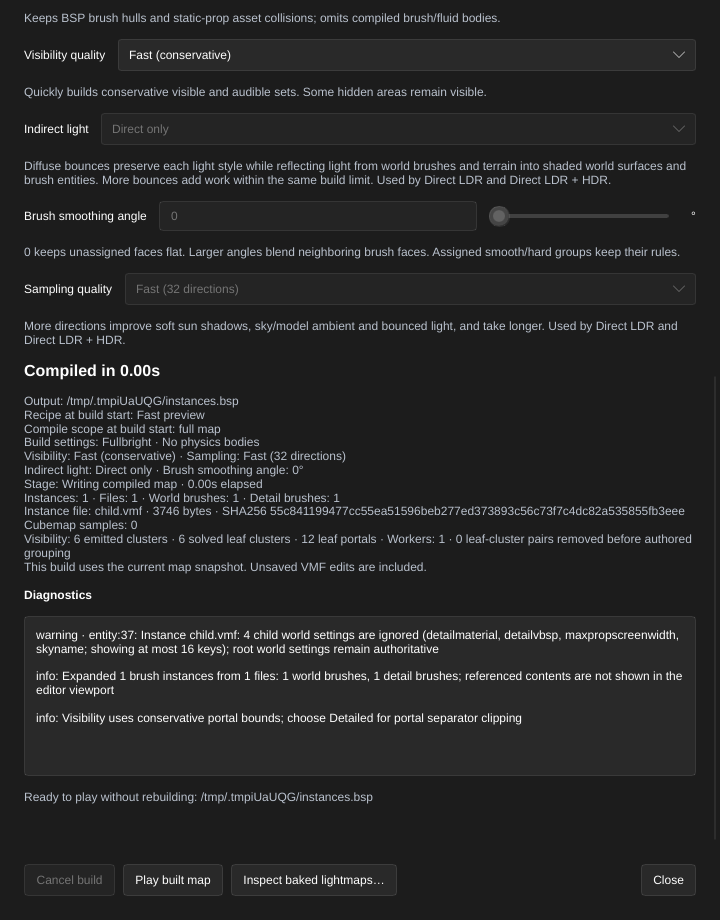
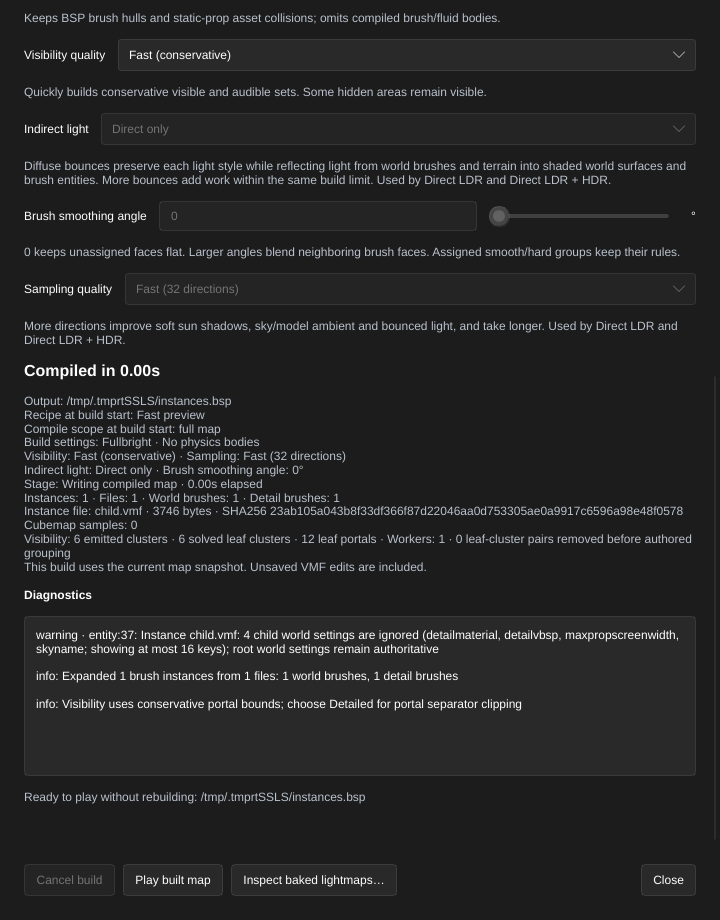
Ship shared instance authoring and reference previews - Keep reference geometry bounded, explicit and owner-selectable - Guard source paths and preserve owned authoring drafts - Release child UI owners and verify actual resource teardown - Update manuals, captures and focused validation workflows

diff --git a/crates/editor-core/src/mcp/tools/build.rs b/crates/editor-core/src/mcp/tools/build.rs
@@ -142,7 +142,7 @@ impl EditorServer {
     }
 
     #[tool(
-        description = "Start a background compile of the current map snapshot and return its job token immediately. Poll get_compile_status, or cancel_compile with that token. Does not launch the game or save the VMF. Saved maps support bounded single-level func_instance world/func_detail brushes from checked relative VMFs inside the saved parent directory. No recursive/runtime-entity expansion or viewport instance preview; func_instance_parms, unsupported helpers and Generate reflections with instances reject. Instance builds retain exact source/dependency guards for atomic BSP/LIN publication, stale status, baked inspection and background launch verification. Stats.instances reports bounded files/counts and hashes. Failed, changed or cancelled builds preserve previous outputs."
+        description = "Start a background compile of the current map snapshot and return its job token immediately. Poll get_compile_status, or cancel_compile with that token. Does not launch the game or save the VMF. Saved maps support bounded single-level func_instance world/func_detail brushes from checked relative VMFs inside the saved parent directory. Explicit default-off viewport reference contents use inspect_instance_contents/set_instance_contents; compilation does not refresh that layer. No recursive/runtime-entity expansion; func_instance_parms, unsupported helpers and Generate reflections with instances reject. Instance builds retain exact source/dependency guards for atomic BSP/LIN publication, stale status, baked inspection and background launch verification. Stats.instances reports bounded files/counts and hashes. Failed, changed or cancelled builds preserve previous outputs."
     )]
     pub(in crate::mcp) fn start_compile(
         &self,

diff --git a/scripts/validate_instance_contents.py b/scripts/validate_instance_contents.py
@@ -11,7 +11,7 @@ from validate_sky_preview import rgba_png
 
 TOP = {"projection": "top", "center": [0, 0, 0], "ortho_height": 96}
 SIZE = 513
-PROBE = (171, 256)
+PROBE = (64, 256)
 
 
 def digest(path):
@@ -64,7 +64,7 @@ def validate(client, output, result):
 
     child = output / "parts/child.vmf"
     child.parent.mkdir()
-    block([-24, -24, 0], [24, 24, 40])
+    block([-40, -40, 0], [40, 40, 40])
     child_detail = block([40, -12, 0], [64, 12, 24])
     client.call("tie_to_entity", {"ids": [child_detail], "classname": "func_detail"})
     client.call("save_map", {"path": str(child)})
@@ -116,8 +116,11 @@ def validate(client, output, result):
     check(on != off and probe(on) != probe(off) and report["displayed"],
         "Actual flat world/detail reference surfaces render at transformed positions")
     reference_hit = pick(True)
+    marker_hit = client.call("pick_at_pixel", {"x": 171, "y": 256, "width": SIZE,
+        "height": SIZE, "camera": TOP, "instance_contents": False})
     check(reference_hit["object"] == owners[0] and reference_hit["solid"] is None
-        and reference_hit["side"] is None and pick(False) == {"hit": None},
+        and reference_hit["side"] is None and pick(False) == {"hit": None}
+        and marker_hit["object"] == owners[0] and marker_hit["point"][2] < reference_hit["point"][2],
         "Temporary render/pixel-pick overrides agree and expose only the existing root owner")
     center_hit = client.call("pick_at_pixel", {"x": 256, "y": 256, "width": SIZE, "height": SIZE,
         "camera": TOP, "instance_contents": True})

diff --git a/crates/compiler/src/instances/tests.rs b/crates/compiler/src/instances/tests.rs
@@ -950,6 +950,12 @@ fn reference_presence_is_metadata_only_and_keeps_directory_changes_independent()
 #[test]
 fn reference_presence_rejects_unsupported_paths_and_self_aliases() {
     let (directory, _, _, _) = fixture();
+    #[cfg(unix)]
+    std::fs::hard_link(
+        directory.path().join("parent.vmf"),
+        directory.path().join("self.vmf"),
+    )
+    .unwrap();
     let location = SourceLocation::capture(&directory.path().join("parent.vmf")).unwrap();
     let oversized = directory.path().join("oversized.vmf");
     std::fs::File::create(&oversized)
@@ -958,14 +964,13 @@ fn reference_presence_rejects_unsupported_paths_and_self_aliases() {
         .unwrap();
     std::fs::create_dir(directory.path().join("directory.vmf")).unwrap();
     #[cfg(unix)]
-    {
-        std::fs::hard_link(
-            directory.path().join("parent.vmf"),
-            directory.path().join("self.vmf"),
-        )
-        .unwrap();
-        assert!(location.reference("self.vmf").is_err());
-    }
+    assert!(
+        location
+            .reference("self.vmf")
+            .unwrap_err()
+            .to_string()
+            .contains("self-reference cycle")
+    );
     for value in [
         "",
         "../child.vmf",

diff --git a/crates/editor/src/ui/mod.rs b/crates/editor/src/ui/mod.rs
@@ -459,7 +459,15 @@ fn refresh_panel(app: &AppWindow, session: &mut Session) {
     app.set_selection_title(title.into());
     app.set_selection_detail(detail.into());
     app.set_entity_selected(properties.is_some());
-    app.set_can_edit_instance_reference(single_selected_entity(session).and_then(|id|doc.entity(id)).is_some_and(|entity|entity.classname().is_some_and(|name|name.eq_ignore_ascii_case("func_instance"))));
+    app.set_can_edit_instance_reference(
+        single_selected_entity(session)
+            .and_then(|id| doc.entity(id))
+            .is_some_and(|entity| {
+                entity
+                    .classname()
+                    .is_some_and(|name| name.eq_ignore_ascii_case("func_instance"))
+            }),
+    );
     let helper_report =
         single_selected_entity(session).and_then(|id| session.entity_helper_report(id).ok());
     app.set_has_fgd_model_guide(

diff --git a/crates/editor/src/ui/instance_reference.rs b/crates/editor/src/ui/instance_reference.rs
@@ -364,13 +364,11 @@ impl Controller {
                 if let Some(controller) = weak.upgrade() {
                     if controller.window.get_owned()
                         && let Some(token) = controller.token.get()
-                    {
-                        if let Err(error) =
+                        && let Err(error) =
                             lock(&controller.shared).cancel_instance_reference(Actor::User, token)
-                        {
-                            controller.window.set_message(error.into());
-                            return;
-                        }
+                    {
+                        controller.window.set_message(error.into());
+                        return;
                     }
                     controller
                         .generation

diff --git a/scripts/validate_brush_instances.py b/scripts/validate_brush_instances.py
@@ -141,7 +141,7 @@ def validate(client, output, gameinfo, result):
     assert any(diagnostic["object"] == helper and child_relative in diagnostic["message"]
                and "child world settings are ignored" in diagnostic["message"]
                for diagnostic in built["diagnostics"])
-    assert any(diagnostic["level"] == "info" and "not shown in the editor viewport" in diagnostic["message"]
+    assert any(diagnostic["level"] == "info" and "Expanded 1 brush instances from 1 files" in diagnostic["message"]
                for diagnostic in built["diagnostics"])
     check(blocking_path.read_bytes().startswith(b"VBSP")
           and blocking_path.with_suffix(".lin").read_bytes() == previous_lin,

diff --git a/crates/editor-core/src/session/instance_contents.rs b/crates/editor-core/src/session/instance_contents.rs
@@ -983,7 +983,9 @@ impl Session {
                 }
                 for indices in ready.mesh.indices
                     [brush.indices.start as usize..brush.indices.end as usize]
-                    .chunks_exact(3)
+                    .as_chunks::<3>()
+                    .0
+                    .iter()
                 {
                     let positions = std::array::from_fn(|index| {
                         DVec3::from_array(

diff --git a/crates/render/src/gpu.rs b/crates/render/src/gpu.rs
@@ -1619,6 +1619,7 @@ mod tests {
     fn transparent_model_order_tracks_render_camera_and_keeps_normal_order() {
         use super::*;
         let batch = |center, model_translucent| DrawBatch {
+            reference: false,
             batch: Batch {
                 material: 0,
                 first_index: 0,

diff --git a/crates/editor/src/ui/instance_contents.rs b/crates/editor/src/ui/instance_contents.rs
@@ -259,7 +259,7 @@ impl Controller {
                 }
             }
         });
-        controller.window.on_close({
+        controller.window.on_close_dialog({
             let weak = Rc::downgrade(&controller);
             move || {
                 if let Some(controller) = weak.upgrade() {

diff --git a/docs/mcp.md b/docs/mcp.md
@@ -108,13 +108,52 @@ jobs report `instance_dependencies.current/error`; `stale`, launch readiness
 and baked inspection include the retained build's dependencies. Launch verifies
 exact contents in its worker. Source/settings changes, dependency failures and
 cancellation preserve previous BSP/pointfile bytes. **Generate reflections**
-with instances rejects; viewport expansion and nested/runtime-name expansion
-remain unavailable. `run_map_checks` performs only pure helper-field/path-state
+with instances rejects; nested/runtime-name expansion remains unavailable. The
+explicitly refreshed flat reference layer is separate from compilation. `run_map_checks` performs only pure helper-field/path-state
 admission, leaving child reads and complete validation to compilation.
+
+## Instance reference tools
+
+`get_instance_reference` inspects the owned authoring form without loading child
+contents. `set_instance_reference` shares **Instance reference…** and **Edit
+instance reference…**: use `action:"begin"` with an optional root helper `id`,
+then `update` with changed `file`, `origin` and `angles` strings. Subsequent
+`check`, `file`, `review`, `apply` and `cancel` actions require the current token.
+`file` converts an explicitly supplied picker `selected_path` through the same saved-parent
+path admission; it does not copy or search. `review` transfers the form with a new
+token. Create/Edit applies one Undo step and preserves untouched imported data.
+Source/save/revision/definition changes and competing drafts reject stale work.
+`contents_validation:"not_checked"` means path/presence only; explicit Refresh or
+Compile performs child-content admission. See [Instance authoring](instance-authoring.md).
+
+`inspect_instance_contents` reads the default-off reference layer's state,
+source/dependency identities, transforms, bounds, counts and diagnostics without
+loading child bytes or initializing graphics. `offset` and `limit` page at most
+64 owners. `set_instance_contents` accepts `action:"refresh"` and optional
+`background:true`; poll inspection for completion. Refresh resolves the current
+immutable parent outside the Session lock and evicts any earlier effective layer.
+One missing or unsupported visible child fails the complete layer.
+
+`cancel`, `clear` and `frame` require the current contents token. Frame optionally
+takes root `ids` and a positive `aspect`; omitted IDs use selection, and empty
+selection frames all. These operations do not toggle the checkbox. Shared
+`set_view.instance_contents` and temporary `render_view.instance_contents` control
+display; `pick_at_pixel.instance_contents` matches temporary visibility. Picks
+return root helper ownership with null root solid/side, never editable child
+surfaces. Face/component modes, ruler endpoint picks and incompatible authoring
+tools suppress the layer. Camera framing can include child bounds, while editing
+bounds and pivots remain rooted in parent objects.
+
+Stale metadata is checked before UI and MCP render-cache reuse. Render metadata
+retains the exact uploaded layer report, separately from newer Session state.
+Reference toggles, Refresh/Clear and suppression use a derived render revision;
+they do not invalidate active root editing tools. Refresh/Clear never edits map
+source/history or loads child materials. See [Instance contents](instance-contents.md)
+for source, geometry and memory limits.
 
 ## Tools by task
 
-The shared desktop and private stdio server register 400 tools. `tools/list`
+The shared desktop and private stdio server register 404 tools. `tools/list`
 returns their current schemas and descriptions.
 
 | Task | Tools |
@@ -133,6 +172,8 @@ returns their current schemas and descriptions.
 | Selection and history | `select`, `get_selection`, `set_selection_mode`, `undo`, `redo`, `get_history`, `navigate_history` |
 | Measurement guides | `get_measurements`, `set_measurement` |
 | Overlapping objects | `get_object_hit_candidates`, `cycle_object_hit` |
+| Instance reference authoring | `get_instance_reference`, `set_instance_reference` |
+| Instance contents preview | `inspect_instance_contents`, `set_instance_contents` |
 | Prefab library | `get_prefabs`, `inspect_prefab_thumbnail`, `render_prefab_thumbnail`, `save_prefab`, `preview_prefab`, `rename_prefab`, `delete_prefab`; placement uses `apply_paste` / `cancel_paste` |
 | Layers | `get_layers`, `begin_layer_edit`, `update_layer_edit`, `apply_layer_edit`, `cancel_layer_edit`, `select_layer_members`, `set_layer_visibility` |
 | Clipboard and transfer | `get_clipboard`, `copy_objects`, `cut_objects`, `import_clipboard`, `export_clipboard`, `preview_paste`, `apply_paste`, `cancel_paste` |

diff --git a/docs/status.md b/docs/status.md
@@ -66,7 +66,7 @@ HammeRR is in active development.
 | Feature | Works | Not yet |
 | --- | --- | --- |
 | Geometry and collision | BSP version 20, with checked brush planes and collision bevels; unreadable or malformed required materials/textures fail before output publication | — |
-| [Referenced instances](instances.md) | Saved parents expand bounded single-level world/detail brushes with Source transforms and attached UVs before region selection. Shared builds retain exact child identities, counts and provenance; changed dependencies stale completed builds, baked inspection and Play. Failures preserve BSP/pointfile | Referenced viewport contents, extraction, in-context editing, nested/runtime entities, replacements/scoped names, child terrain and generated reflections |
+| [Referenced instances](instances.md) | Dedicated [authoring](instance-authoring.md) provides shared Create/Edit/Cancel and path/presence checks. Default-off [contents preview](instance-contents.md) explicitly resolves flat reference geometry with owner picks, camera framing, stale guards and bounded diagnostics. Saved parents expand bounded single-level world/detail brushes with Source transforms and attached UVs before region selection. Shared builds retain exact child identities, counts and provenance; changed dependencies stale completed builds, baked inspection and Play. Failures preserve BSP/pointfile | Extraction, in-context editing, nested/runtime entities, replacements/scoped names, child terrain and generated reflections |
 | Build settings | Fullbright, Direct LDR or Direct LDR + HDR lighting, physics, visibility, sampling, bounces, smoothing, default-off sky packing and LDR or paired LDR/HDR reflection generation available before the first build; eight values shared with agents, retained by compatible recent-map contexts and custom recipes, captured by jobs and frozen during builds | — |
 | Portable sky assets | Default-off **Pack sky assets** admits six static LDR or complete LDR/HDR sky faces, retains exact original VMT/Patch/runtime texture bytes and names, and verifies a bounded asset-relative manifest before guarded publication and offline Run staging. Pack-only playback needs no original custom sky mount after publication. Optional generated reflections retain the sky entries while rebasing their own names | Compressed HDR skies, conditional/animated/ambiguous material declarations, native HDR radiance validation and unrelated asset packing |
 | Compile regions | One native axis-aligned region, shared preview/review/cancel, Undo and save/reopen; whole brushes/terrain, contained world water, complete imported regular overlays and water transitions, contained portals/windows/occluders and explicit model and sprite details selected by inclusive authored origin (zero when absent) with normal asset/bounds/open-leaf/lighting checks; six black sealing slabs, retained sun/water controls and frozen build scope; effective imported-box framing/guides | Multiple active regions, crossing terrain/water/helpers, runtime-model terrain, detail/model water, slime and visclusters; every overlay target and window model must remain available; plural records need explicit Clear before replacement |

diff --git a/docs/instance-contents.md b/docs/instance-contents.md
@@ -1,3 +1,5 @@
+[← Manual](README.md)
+
 # Instance contents
 
 Inspect the world and detail geometry referenced by saved `func_instance`
@@ -5,8 +7,8 @@ helpers. The flat reference layer uses the helpers' complete Source transforms,
 with owner selection, depth and camera framing. It leaves child files and parent
 map objects unchanged.
 
-1. Save the parent VMF. Give each visible instance helper an explicit relative
-   `.vmf` **file** reference inside the saved parent's directory tree.
+1. Save the parent VMF. Use **Instance reference…** to create an explicit relative
+   `.vmf` reference inside its directory tree; see [Instance authoring](instance-authoring.md).
 2. Under **VIEWPORT**, enable **Instance contents**, then open **Instance contents…**.
 3. Click **Refresh instance contents**. The inspector reports loading, ready,
    empty or failed state, owner references, transforms, world/detail counts,
@@ -20,6 +22,10 @@ map objects unchanged.
    **Refresh instance contents** again. Stale contents disappear from rendering,
    picking and framing; a failed refresh keeps its error and shows no old layer.
 
+![Reference inspector with owner and dependency details](images/instance-contents.png)
+
+![Resolved reference geometry with a selected root owner](images/instance-reference-contents.png)
+
 Turning the checkbox on or off displays an existing current snapshot; it never
 loads child files. Refresh resolves one immutable parent snapshot outside the
 Session lock. Unsaved edits in that parent remain authoritative. All visible
@@ -27,7 +33,7 @@ references must resolve successfully together. A missing or unsupported child
 fails the whole layer, including repeated occurrences of that child.
 
 The layer is available in ordinary **Objects** mode. Faces, components,
-placement, paint, clipping and active geometry drafts suppress it, with a status
+placement, paint, clipping, ruler endpoint picking and active geometry drafts suppress it, with a status
 reason. Child geometry never becomes an editable root face or placement target.
 Selection dimensions, transform pivots, measurement attachments, volume tools
 and other authoring bounds continue to use real parent objects. A working region
@@ -38,8 +44,8 @@ outline. Root geometry occludes them by depth. **Wireframe** draws their edges
 without filling the faces. The layer does not load child materials or evaluate
 lighting, normals, sky, water, transparency, models or runtime entities.
 **Tool textures** does not classify this flat reference layer. Nested instances,
-child editing, file browsing/replacement authoring and live transformed child
-previews remain unsupported.
+child editing, parameter replacements and live transformed child previews remain
+unsupported. [Instance authoring](instance-authoring.md) edits the root reference.
 
 Limits include 256 occurrences, 32 unique files, 4 MiB per file and 32 MiB total
 source bytes, with bounded parsing and geometry work. Derived geometry is capped
